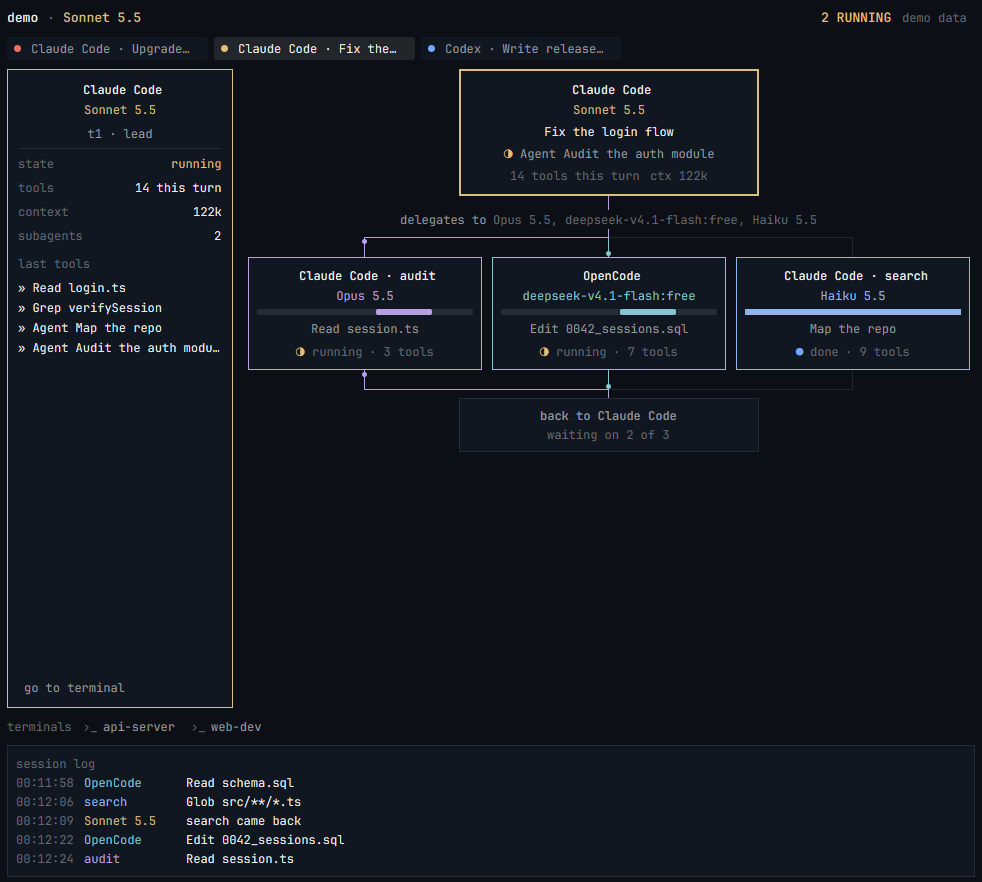
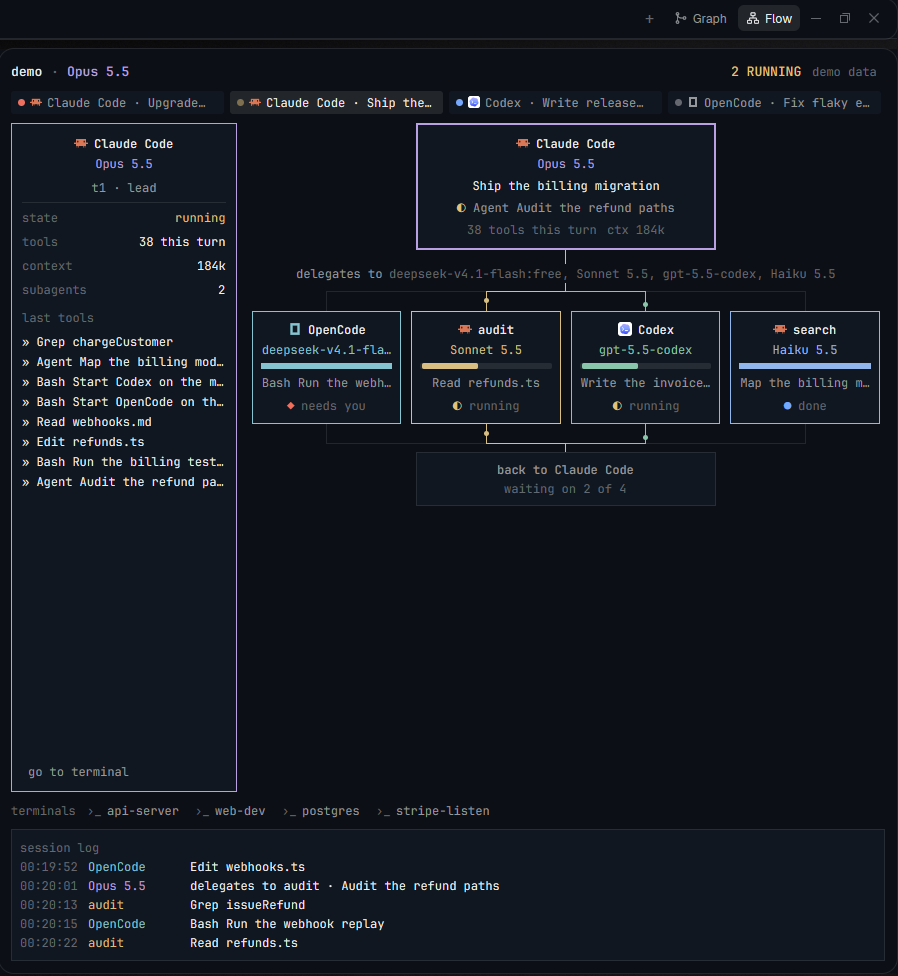
Add MIT license and a richer demo and preview

diff --git a/mods/agent-flow/demo.js b/mods/agent-flow/demo.js
@@ -1,40 +1,63 @@
-// Made-up data for `props: { demo: true }`: shows every state and makes a safe screenshot.
-const at = Date.now() - 60000;
+// Made-up data for `props: { demo: true }`: an orchestrator with mixed agents in every state,
+// for trying the mod and for a screenshot with nothing private in it.
+const at = Date.now() - 240000;
 const step = (s, name, hint, extra) => ({ t: at + s * 1000, name, hint, ...extra });
-const program = (key, name, agent = true) => ({ key, name, agent, icon: null, tint: false });
+const program = (key, name, icon, agent = true, tint = false) => ({ key, name, agent, icon, tint });
+const CLAUDE = program("claude", "Claude Code", "icons/claude.svg");
+const CODEX = program("codex", "Codex", "icons/codex.svg");
+const OPENCODE = program("opencode", "OpenCode", "icons/opencode.svg", true, true);
+const plain = (address, name, key) => ({ address, state: "live", parent: "t1", status: null, report: null, name, program: program(key, key, null, false), title: "", cwd: "~/projects/billing" });
 
 export const terminals = [
-  { address: "t1", state: "live", parent: null, status: "working", report: { app: "claude-code" }, program: program("claude", "Claude Code"), title: "Fix the login flow", cwd: "~/projects/app" },
-  { address: "t7", state: "live", parent: "t1", status: "working", report: { app: "opencode", title: "Write the migration" }, program: program("opencode", "OpenCode"), title: "OC | Write the migration", cwd: "~/projects/api" },
-  { address: "t30", state: "live", parent: "t1", status: null, report: null, name: "api-server", program: program("node", "Node.js", false), title: "", cwd: "~/projects/api" },
-  { address: "t31", state: "live", parent: "t1", status: null, report: null, name: "web-dev", program: program("vite", "Vite", false), title: "", cwd: "~/projects/web" },
-  { address: "t4", state: "live", parent: null, status: "blocked", report: { app: "claude-code" }, program: program("claude", "Claude Code"), title: "Upgrade dependencies", cwd: "~/projects/deps" },
-  { address: "t6", state: "live", parent: null, status: "done", report: { app: "codex" }, program: program("codex", "Codex"), title: "Write release notes", cwd: "~/projects/docs" },
+  { address: "t1", state: "live", parent: null, status: "working", report: { app: "claude-code" }, program: CLAUDE, title: "Ship the billing migration", cwd: "~/projects/billing" },
+  { address: "t7", state: "live", parent: "t1", status: "working", report: { app: "codex", title: "Write the invoice migration" }, name: "db-migration", program: CODEX, title: "Write the invoice migration", cwd: "~/projects/billing/db" },
+  { address: "t9", state: "live", parent: "t1", status: "blocked", report: { app: "opencode", title: "Port the webhook handlers" }, name: "webhooks", program: OPENCODE, title: "OC | Port the webhook handlers", cwd: "~/projects/billing/api" },
+  plain("t30", "api-server", "node"),
+  plain("t31", "web-dev", "vite"),
+  plain("t32", "postgres", "docker"),
+  plain("t33", "stripe-listen", "stripe"),
+  { address: "t4", state: "live", parent: null, status: "blocked", report: { app: "claude-code" }, program: CLAUDE, title: "Upgrade dependencies", cwd: "~/projects/deps" },
+  { address: "t6", state: "live", parent: null, status: "done", report: { app: "codex" }, program: CODEX, title: "Write release notes", cwd: "~/projects/docs" },
+  { address: "t8", state: "live", parent: null, status: "idle", report: { app: "opencode" }, program: OPENCODE, title: "Fix flaky e2e tests", cwd: "~/projects/e2e" },
 ];
 
 export const scan = {
   sessions: [{
-    id: "demo", agent: "claude-code", cwd: "~/projects/app", model: "claude-sonnet-5-5", ctx: 122000, tools: 14,
-    turnAt: at, lastAt: at + 58000, now: { name: "Agent", hint: "Audit the auth module" }, total: 2,
+    id: "demo", agent: "claude-code", cwd: "~/projects/billing", model: "claude-opus-5-5", ctx: 184000, tools: 38,
+    turnAt: at, lastAt: at + 236000, now: { name: "Agent", hint: "Audit the refund paths" }, total: 2,
     recent: [
-      step(4, "Read", "login.ts"),
-      step(11, "Grep", "verifySession"),
-      step(20, "Agent", "Map the repo", { delegate: "search" }),
-      step(21, "Agent", "Audit the auth module", { delegate: "audit" }),
-      step(41, "back", "search", { back: true }),
+      step(12, "Read", "invoice.ts"),
+      step(26, "Grep", "chargeCustomer"),
+      step(44, "Agent", "Map the billing module", { delegate: "search" }),
+      step(52, "Bash", "Start Codex on the migration"),
+      step(58, "Bash", "Start OpenCode on the webhooks"),
+      step(96, "Read", "webhooks.md"),
+      step(131, "back", "search", { back: true }),
+      step(140, "Edit", "refunds.ts"),
+      step(182, "Bash", "Run the billing test suite"),
+      step(214, "Agent", "Audit the refund paths", { delegate: "audit" }),
     ],
     subs: [
-      { id: "a1", type: "search", description: "Map the repo", status: "done", model: "claude-haiku-5-5", tools: 9, ctx: 18000, now: null, startedAt: at + 20000, lastAt: at + 41000,
-        recent: [step(38, "Glob", "src/**/*.ts")] },
-      { id: "a3", type: "audit", description: "Audit the auth module", status: "working", model: "claude-opus-5-5", tools: 3, ctx: 41000, now: { name: "Read", hint: "session.ts" }, startedAt: at + 22000, lastAt: at + 58000,
-        recent: [step(56, "Read", "session.ts")] },
+      { id: "a1", type: "search", description: "Map the billing module", status: "done", model: "claude-haiku-5-5", tools: 14, ctx: 31000, now: null, startedAt: at + 44000, lastAt: at + 131000,
+        recent: [step(70, "Glob", "src/billing/**/*.ts"), step(118, "Read", "stripe.ts")] },
+      { id: "a3", type: "audit", description: "Audit the refund paths", status: "working", model: "claude-sonnet-5-5", tools: 11, ctx: 58000, now: { name: "Read", hint: "refunds.ts" }, startedAt: at + 214000, lastAt: at + 235000,
+        recent: [step(226, "Grep", "issueRefund"), step(235, "Read", "refunds.ts")] },
     ],
   }, {
-    id: "demo-oc", agent: "opencode", cwd: "~/projects/api", model: "deepseek-v4.1-flash:free", ctx: 0, tools: 7,
-    turnAt: at, lastAt: at + 55000, now: { name: "Edit", hint: "0042_sessions.sql" }, total: 0, subs: [],
-    recent: [step(30, "Read", "schema.sql"), step(54, "Edit", "0042_sessions.sql")],
+    id: "demo-cx", agent: "codex", cwd: "~/projects/billing/db", model: "gpt-5.5-codex", ctx: 0, tools: null,
+    turnAt: 0, lastAt: at + 230000, now: null, total: 0, subs: [], recent: [],
   }, {
-    id: "demo-cx", agent: "codex", cwd: "~/projects/docs", model: "gpt-5.5-codex", ctx: 0, tools: null,
+    id: "demo-oc", agent: "opencode", cwd: "~/projects/billing/api", model: "deepseek-v4.1-flash:free", ctx: 0, tools: 27,
+    turnAt: at, lastAt: at + 228000, now: { name: "Bash", hint: "Run the webhook replay" }, total: 0, subs: [],
+    recent: [step(110, "Read", "stripe-events.ts"), step(205, "Edit", "webhooks.ts"), step(228, "Bash", "Run the webhook replay")],
+  }, {
+    id: "demo-t4", agent: "claude-code", cwd: "~/projects/deps", model: "claude-sonnet-5-5", ctx: 67000, tools: 9,
+    turnAt: at, lastAt: at + 90000, now: null, total: 0, subs: [], recent: [step(90, "Bash", "Run npm audit")],
+  }, {
+    id: "demo-t6", agent: "codex", cwd: "~/projects/docs", model: "gpt-5.5-codex", ctx: 0, tools: null,
     turnAt: 0, lastAt: at, now: null, total: 0, subs: [], recent: [],
+  }, {
+    id: "demo-t8", agent: "opencode", cwd: "~/projects/e2e", model: "deepseek-v4.1-flash:free", ctx: 0, tools: 12,
+    turnAt: 0, lastAt: at, now: null, total: 0, subs: [], recent: [step(30, "Edit", "checkout.spec.ts")],
   }],
 };

diff --git a/mods/agent-flow/main.js b/mods/agent-flow/main.js
@@ -299,16 +299,18 @@ export default class AgentFlow extends View {
   kidBox(k, t, width) {
     const quiet = k.status === "stale";
     const color = quiet ? t.border : k.color;
+    const tight = width < 170; // four boxes side by side: drop what the detail panel repeats
+    const name = k.address || tight ? (k.address ? k.agent : k.title) : `${k.agent} · ${k.title}`;
     return v_flex().id(`kid-${k.id}`).w_full().max_w(KID_MAX).p(8).gap(4).items_center().bg(t.background)
       .border(this.kid === k.id ? 2 : 1).border_color(color).cursor_pointer()
       .hover((s) => s.bg(t.hover))
       .on_click((_e, cx) => { this.kid = this.kid === k.id ? null : k.id; cx.notify(); })
-      .child(this.who(k.address ? k.agent : `${k.agent} · ${k.title}`, k.model, k.program, k.color, t))
+      .child(this.who(name, k.model, k.program, k.color, t))
       .child(this.bar(k.status, k.color, t, width))
       .child(div().w_full().text_center().truncate().text_color(t.muted).child(k.now ? toolLine(k.now) : k.sub || " "))
       .child(h_flex().gap(6).items_center().text_color(t.dim)
         .child(this.mark(k.status, t)).child(stateWord(k.status))
-        .when(k.tools != null, (e) => e.child(`· ${count(k.tools, k.more)}`)));
+        .when(k.tools != null && !tight, (e) => e.child(`· ${count(k.tools, k.more)}`)));
   }
 
   backBox(lead, session, kids, t, full) {
@@ -371,7 +373,7 @@ export default class AgentFlow extends View {
         .child(h_flex().w_full().child(this.stem(t.border, 4)))
         .child(this.backBox(lead, session, kids, t, true));
     }
-    const shown = kids.slice(0, Math.max(1, Math.min(4, Math.floor(room / 170))));
+    const shown = kids.slice(0, Math.max(1, Math.min(4, Math.floor(room / 150))));
     const low = this.height < SHORT;
     const trunk = shown.find((k) => k.status === "working")?.color ?? t.border;
     return flow.child(this.stem(trunk, low ? 4 : 14))

diff --git a/RECIPE.md b/RECIPE.md
@@ -13,7 +13,7 @@ Top to bottom:
 1. **Header.** Left: the space's name, `·`, the lead's model. Right: `N RUNNING` in `working` color (`muted` at 0) and, in an overlay, a `✕`. Below 340px wide the model drops out.
 2. **Lead chips.** One chip per lead in this space, most urgent first: a 7px status dot, the program icon, `Agent · title` cut at 170px. The chosen one has `selected` as its background.
 3. **Body.** From 640px wide, a 226px detail panel on the left. To its right the flow, in one of two shapes:
-   - **Diagram** (at least 500px of room). A 300px lead box with agent name and icon, model, title, status mark with the current tool, and `N tools this turn  ctx 122k`. Then a stem, `delegates to <models>`, a stem, a 20px fan, up to 4 child boxes (at most 250px, about 170px each decides how many fit), a fan back, and a 300px `back to <agent>` box saying `waiting on 1 of 3` or `3 of 3 back`. More children than fit show as `+N more`.
+   - **Diagram** (at least 500px of room). A 300px lead box with agent name and icon, model, title, status mark with the current tool, and `N tools this turn  ctx 122k`. Then a stem, `delegates to <models>`, a stem, a 20px fan, up to 4 child boxes (at most 250px; one per 150px of room). Under 170px a box drops the tool count and a subagent shows only its type (`audit`), with the agent's icon, a fan back, and a 300px `back to <agent>` box saying `waiting on 1 of 3` or `3 of 3 back`. More children than fit show as `+N more`.
    - **List** (narrower, such as a 368px side panel). The lead and `back to` boxes run full width and the children are stacked rows. A 1px rail runs down the left edge from the lead, with a 13px tick into each row.
 4. **Terminals strip.** Only when the lead started plain terminals: `terminals  ›_ api-server  ›_ web-dev`, dim, no boxes.
 5. **Session log.** A 132px box (96px when the view is under 620px tall) titled `session log`: the last 6 rows (3 when short) of time, who, what. The time drops out under 500px wide.
@@ -44,7 +44,7 @@ One mod, `mods/agent-flow/`:
   - Claude Code: `~/.claude/sessions/<pid>.json` for live sessions (`CLAUDE_CONFIG_DIR` moves it), the tail of `~/.claude/projects/<folder-slug>/<session>.jsonl`, and `<session>/subagents/agent-*.jsonl` with `.meta.json` (`agentType`, `description`, `finished`).
   - opencode: `~/.local/share/opencode/opencode.db` read-only, tables `session_v2` and `session_message`.
   - Codex: `~/.codex/state_*.sqlite` read-only, table `threads`; with no thread, the `model =` line of `config.toml`.
-- `demo.js`: made-up data, shown with props `{ "demo": true }`.
+- `demo.js`: made-up data, shown with props `{ "demo": true }`: an orchestrator with mixed agents in every state.
 - `flow.svg`: a tinted icon for anyone adding a tab bar button.
 - `mod.json`: `{ "place": "none", "title": "Agent Flow", "overlay": { "kind": "dialog", "width": 0.9, "height": 0.92 } }`.
 
@@ -52,7 +52,7 @@ One mod, `mods/agent-flow/`:
 
 Herdr functions: `agents`, `terminals`, `panes`, `spaces`, `focused`, `theme`, `props`, `run`, `exec`, `appHome`, `closeOverlay`, `layout`. Commands: `agent.focus`, `terminal.peek`. A terminal is an agent when it has a `report` or `program.agent`; children are terminals whose `parent` is the lead.
 
-It works three ways: as an overlay (the key), as a pane (`pane.split {direction, mod: "agent-flow"}`), or as a block in a layout. For a side panel beside Files and Changes, add `{ "id": "flow", "type": "block", "content": { "mod": "agent-flow" } }` to the `panel-body` stack in a layout of your own, and a button in a cloned `tabs` mod that runs `layout.select {stack: "panel-body", child: "flow"}` and `layout.show {id: "panel"}`.
+It works three ways: as an overlay (the key), as a pane (`pane.split {direction, mod: "agent-flow"}`), or as a block in a layout. For a side panel beside Files and Changes, add `{ "id": "flow", "type": "block", "content": { "mod": "agent-flow" } }` to the `panel-body` stack in a layout of your own, and a button in a cloned `tabs` mod, as in the preview, that runs `layout.select {stack: "panel-body", child: "flow"}` and `layout.show {id: "panel"}`.
 
 The mod runs a program and reads files outside its folder, always locally and never over the network. `scan.cjs` prints tool names, short hints (a file's name, a Bash description, a search pattern, the start of a command that has no description) and subagent descriptions. It never prints prompts or tool output. Those hints do show up on screen.
 
@@ -75,7 +75,7 @@ The mod runs a program and reads files outside its folder, always locally and ne
 
 - `herdr-app check mods/agent-flow` passes and `herdr-app status` shows no errors.
 - `ctrl-shift-g` opens the overlay, and again closes it.
-- `herdr-app do tab.new --mod agent-flow --props '{"demo":true}'` shows three chips, and under `Claude Code · Fix the login flow` the boxes `Claude Code · audit` (Opus 5.5), `OpenCode` (`deepseek-v4.1-flash:free`) and `Claude Code · search` (Haiku 5.5, done), then `waiting on 2 of 3` and `terminals ›_ api-server ›_ web-dev`.
+- `herdr-app do tab.new --mod agent-flow --props '{"demo":true}'` shows four chips, and under `Claude Code` (Opus 5.5) `Ship the billing migration` the boxes `OpenCode` (`needs you`), `audit` (Sonnet 5.5, running), `Codex` (`gpt-5.5-codex`, running) and `search` (Haiku 5.5, done), then `waiting on 2 of 4` and four entries in the terminals strip.
 - With an agent working, the line from the lead to its box is its color from end to end, and a finished sibling's stays grey.
 - Selecting another space changes the title, chips and boxes; a space with no agents says `No agents in <space>`.
 - A plain terminal started with `hc run` by an agent appears in the terminals strip and never as a box.

diff --git a/README.md b/README.md
@@ -10,6 +10,10 @@ Install: copy `mods/agent-flow/` into `~/.config/herdr-app/mods/`, merge `keys.j
 press `ctrl-shift-g`. Needs Node on PATH, and Node 22 or later for opencode and Codex models.
 [RECIPE.md](RECIPE.md) is the brief to build it from scratch.
 
+The picture shows it as a side panel, opened from a Flow button beside Graph, with the demo data
+(`props: { "demo": true }`). The key opens it as an overlay out of the box; the button lives in
+your own layout and tab bar, and RECIPE.md says how to add it.
+
 ## What it shows
 
 - **Agent and model on every box.** Claude Code, opencode and Codex show their model; other
@@ -31,3 +35,7 @@ network. On screen you get tool names and short hints such as a file name or the
 command, never prompts or tool output.
 
 These are private formats, so an agent's update can leave a box at `model unknown`.
+
+## License
+
+[MIT](LICENSE).
